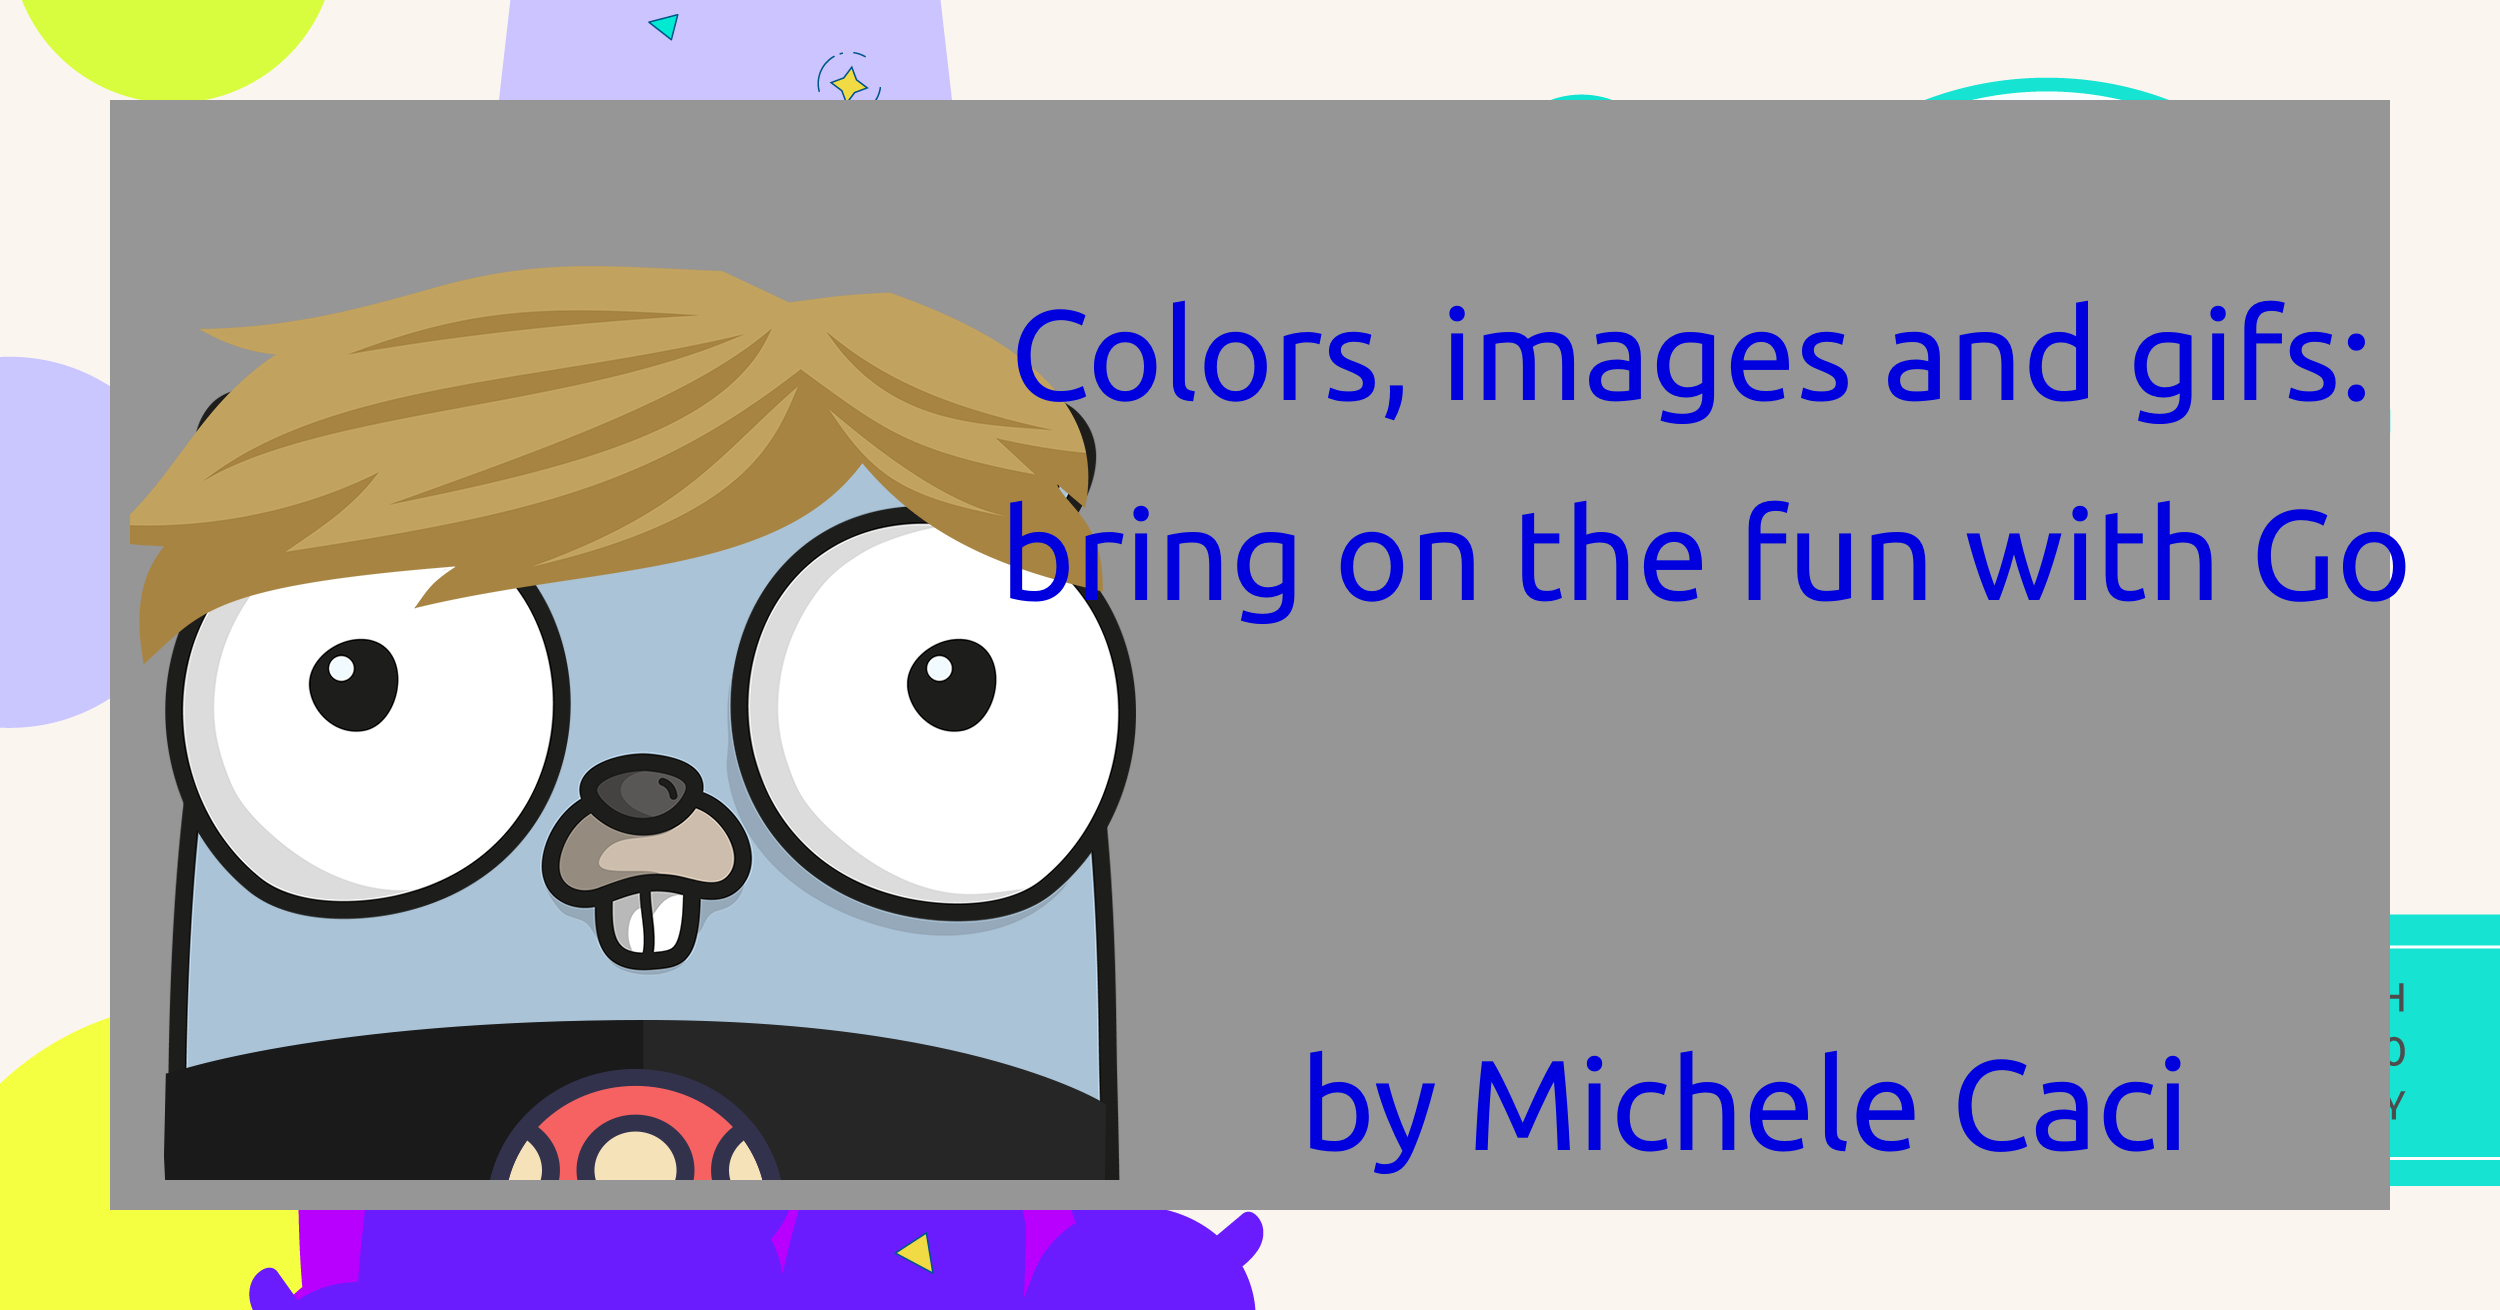
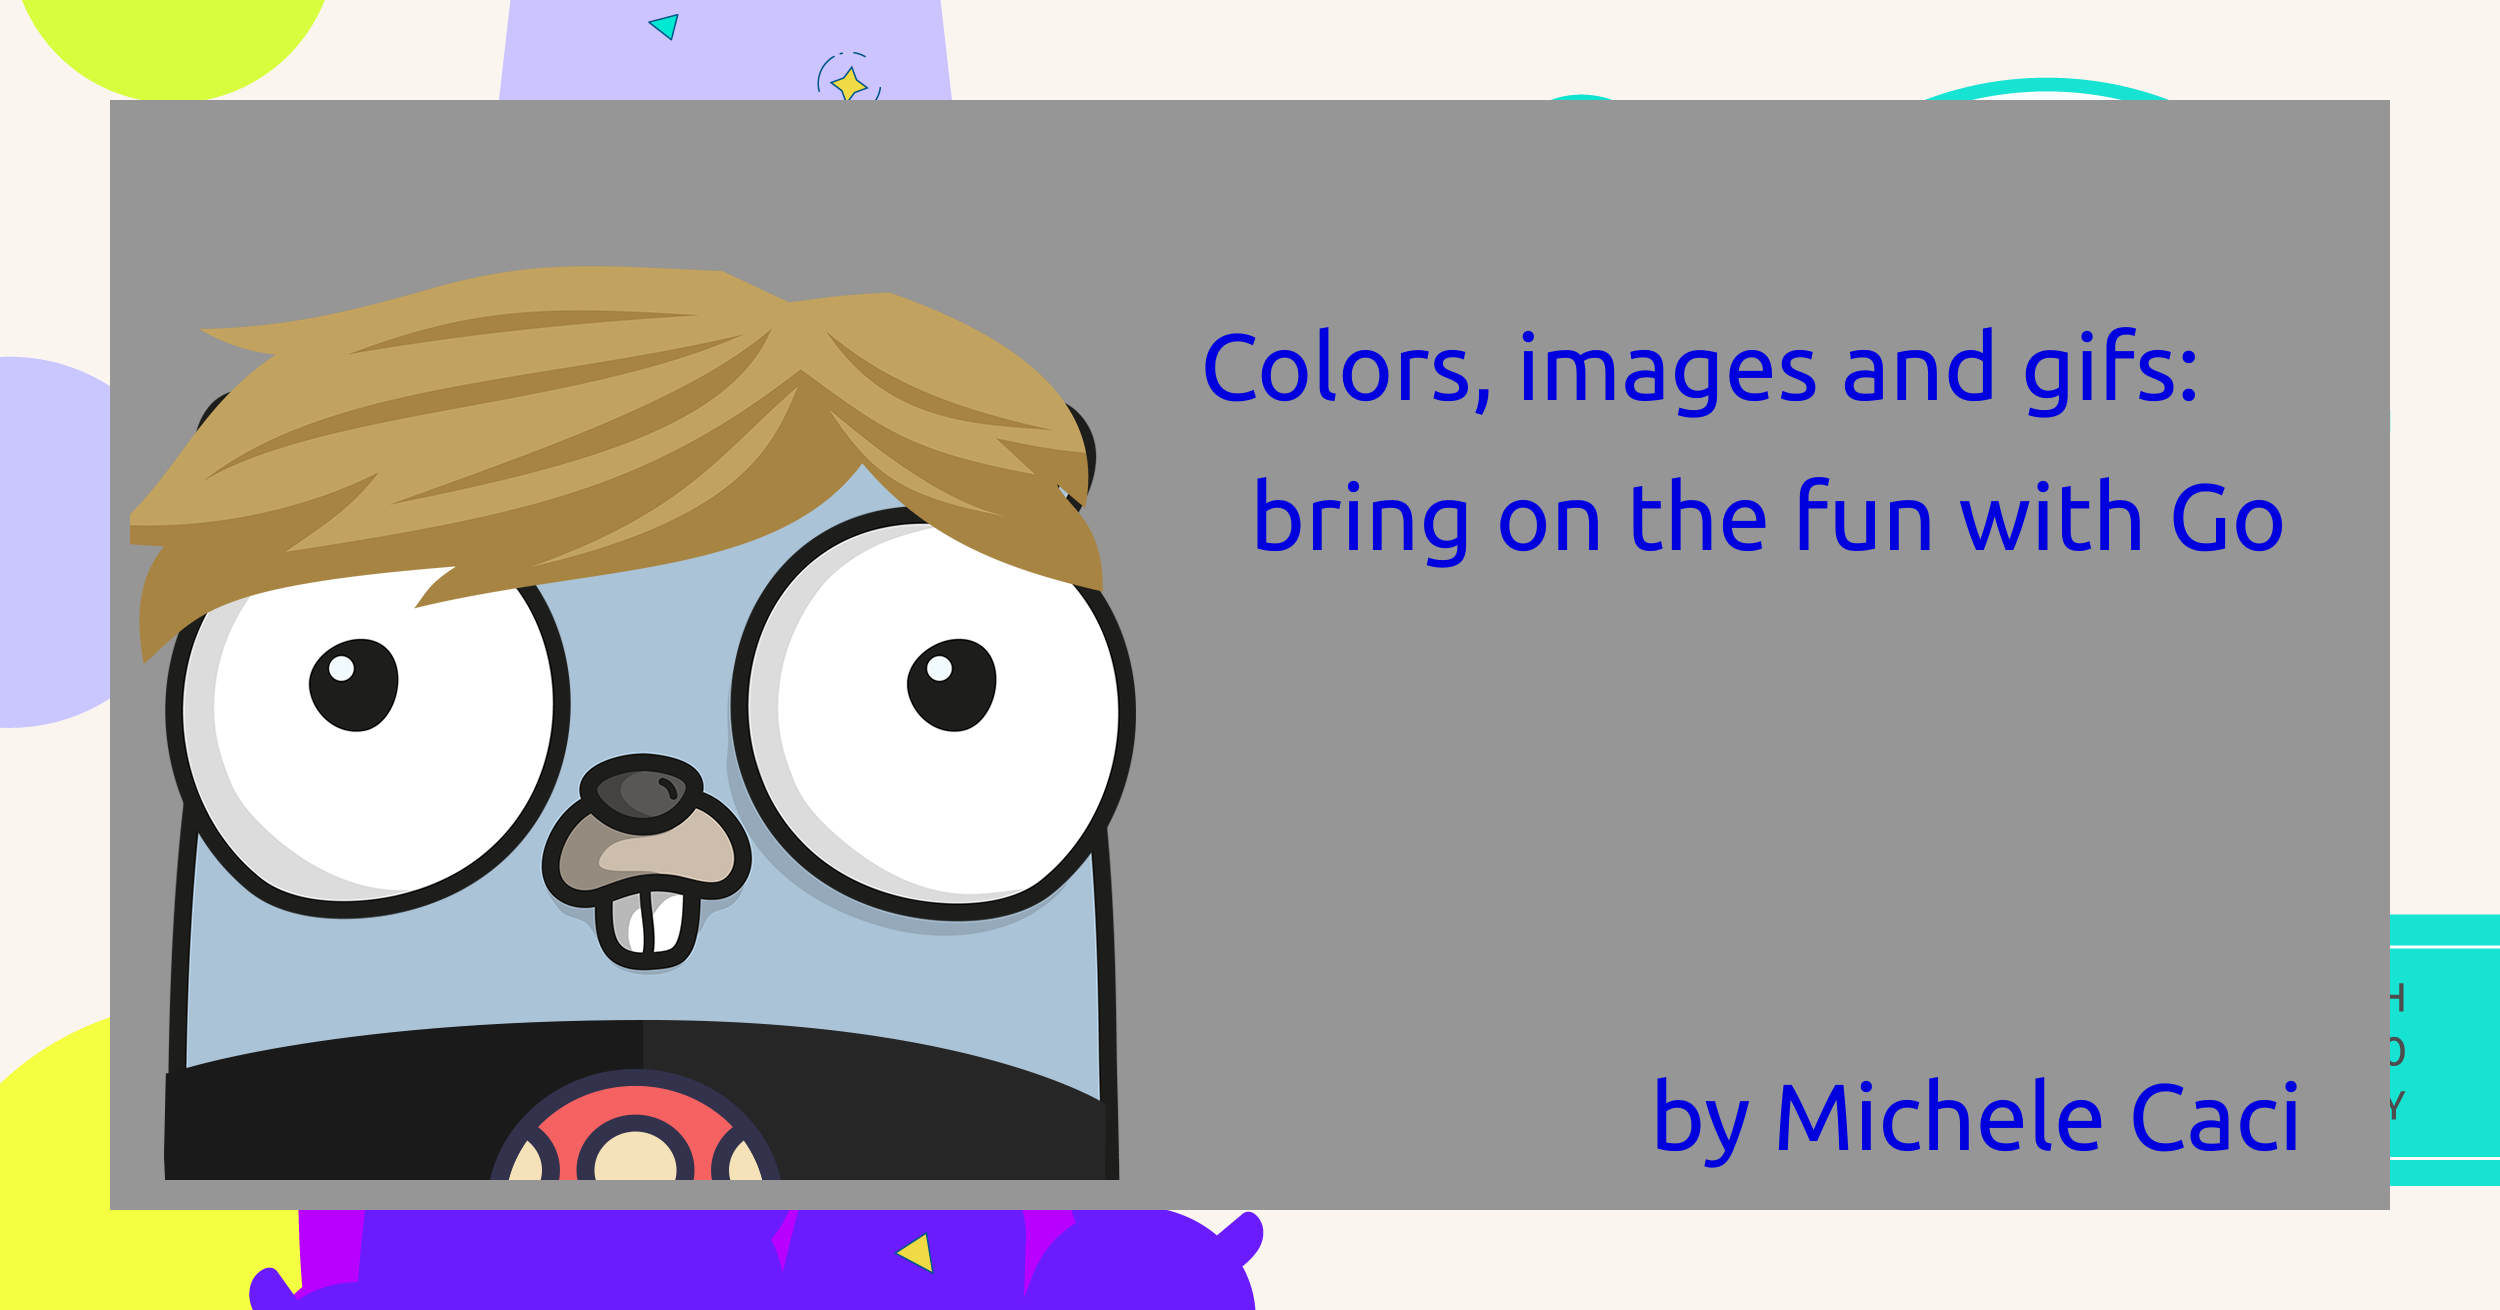
Update layering section

Changed region(s): [[0.4056, 0.3664, 0.9672, 0.4885], [0.4056, 0.2137, 0.936, 0.3359], [0.4992, 0.7939, 0.936, 0.8855]]

diff --git a/src/go/expertComp/main.go b/src/go/expertComp/main.go
@@ -24,13 +24,13 @@ func main() {
 
 	draw.Draw(base, image.Rect(110, 100, base.Bounds().Dx()-110, base.Bounds().Dy()-100), gray, image.Point{110, 100}, draw.Over)
 	draw.Draw(base, image.Rect(130, 130, base.Bounds().Dx()-130, base.Bounds().Dy()-130), gopherized, image.Point{130, 130}, draw.Over)
-	ftc, err := ftContext(base, "0x0000DE", 128.0)
+	ftc, err := ftContext(base, "0x0000DE", 94.0)
 	if err != nil {
 		log.Fatal(err)
 	}
-	ftc.DrawString("Colors, images and gifs:", fixed.P(1010, 400))
-	ftc.DrawString("bring on the fun with Go", fixed.P(1000, 600))
-	ftc.DrawString("by Michele Caci", fixed.P(1300, 1150))
+	ftc.DrawString("Colors, images and gifs:", fixed.P(1200, 400))
+	ftc.DrawString("bring on the fun with Go", fixed.P(1250, 550))
+	ftc.DrawString("by Michele Caci", fixed.P(1650, 1150))
 
 	out, _ := os.Create("composition.png")
 	png.Encode(out, base)

diff --git a/slides.md b/slides.md
@@ -709,8 +709,66 @@ func main() {
 
 Let's get creative
 
-<img v-click src="/images/composition.png" class="absolute top-45 right-25" style="width: 30%; height: auto;"/>
+<v-clicks>
 
+1. Load a background image
+2. Put a grey box inside
+3. Add a nice gopher
+4. Write some text
+</v-clicks>
+
+<img v-click="+1" src="/images/golab-speakers.png" class="absolute top-45 right-25" style="width: 30%; height: auto;"/>
+<img v-click="+2" src="/images/composition-grey.png" class="absolute top-45 right-25" style="width: 30%; height: auto;"/>
+<img v-click="+3" src="/images/composition-gopher.png" class="absolute top-45 right-25" style="width: 30%; height: auto;"/>
+<img v-click="+4" src="/images/composition.png" class="absolute top-45 right-25" style="width: 30%; height: auto;"/>
+
+---
+
+# 🗃 Layering Images and Text
+
+Load the background
+
+```go
+func Load(filename string) draw.Image {
+  f, err := os.Open(filename)
+  if err != nil {
+    log.Fatal(err)
+  }
+  img, err := png.Decode(f)
+  if err != nil {
+    log.Fatal(err)
+  }
+  switch outImg := img.(type) {
+  case draw.Image:
+    return outImg
+  default:
+    log.Fatalf("img %q is not of type draw.Image but %T", filename, img)
+    return nil
+  }
+}
+```
+
+---
+
+# 🗃 Layering Images and Text
+
+Put a grey box inside
+
+---
+
+# 🗃 Layering Images and Text
+
+Add a nice gopher
+
+---
+
+# 🗃 Layering Images and Text
+
+Write some text
+
+---
+
+# How about some ASCII Art?
 
 ---
 
